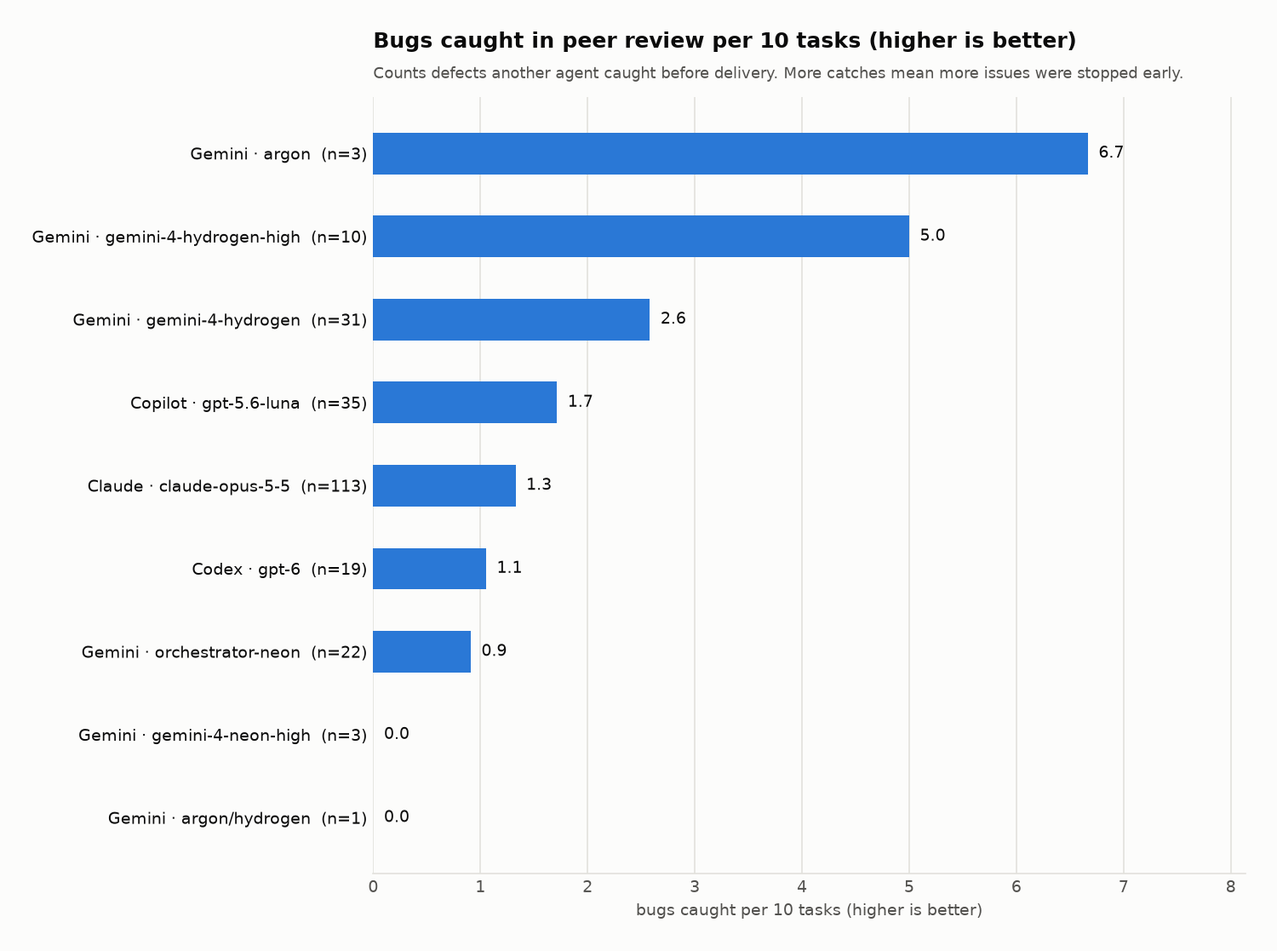
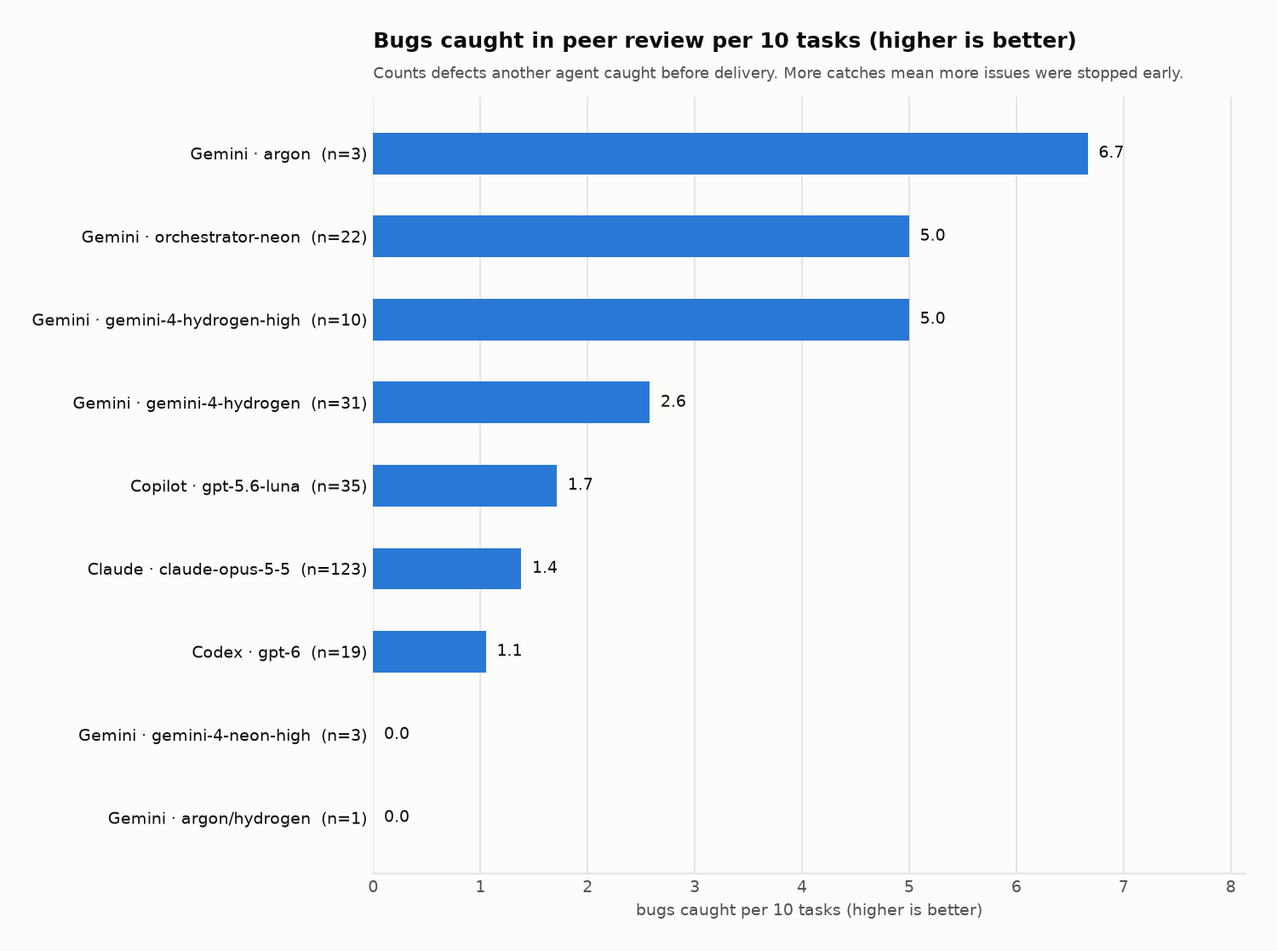
Docs 11-26: LLM bots explainer, Weapon IK 11-26 section, study caveats, README update, refreshed research charts
- New Docs/Bot/src/llm-bots.html (claude.ai "LR2 LLM Bots"): the Groq commander as the code runs it, measured
  request failure rates, which study numbers hold up, 11-26 fixes and open work.
- Weapon IK report: "Now 11-26" section (robot driver + mirrored body, sight lock removed, hands, scope-in-eye,
  stance run table); standalone mirror rebuilt.
- LLM_BOT_STUDY: note on rate limits, unequal teams, cut-off logs and unverified human-likeness.
- README: latest-update block; ARTIFACTS.md: new page, Weapon IK v4, Bot Lab not republished (unreviewed edits).
- analyze.py re-run on the C114-C123 / D107-D123 ledger rows.

diff --git a/Docs/Bot/src/llm-bots.html b/Docs/Bot/src/llm-bots.html
@@ -1,0 +1,148 @@
+<title>LR2 LLM Bots</title>
+<meta name="claude:viewport-fit-sides" content="cover">
+<link rel="stylesheet" href="https://fonts.googleapis.com/css2?family=IBM+Plex+Sans:wght@400;500;600&family=IBM+Plex+Mono:wght@400;500&family=Space+Grotesk:wght@500;600&display=swap">
+<style>
+/* Layout: one reading column for the story, wide blocks for the pipeline and the tables; radio-ops palette (slate, olive, amber orders). */
+:root {
+  --bg: #f4f5f1; --panel: #ffffff; --ink: #1d2320; --muted: #5a645e; --line: #d6dbd4;
+  --accent: #b5651d; --accent-soft: #f6e7d6; --ok: #3f7a4a; --warn: #a8791c; --bad: #b23b32; --chip: #e9ece6;
+  --display: "Space Grotesk", "Segoe UI", sans-serif; --body: "IBM Plex Sans", "Segoe UI", sans-serif; --mono: "IBM Plex Mono", Consolas, monospace;
+}
+@media (prefers-color-scheme: dark) { :root:not([data-theme="light"]) {
+  --bg: #141816; --panel: #1c211e; --ink: #e5e9e4; --muted: #9aa59e; --line: #2f3632;
+  --accent: #e39a52; --accent-soft: #3a2a1b; --ok: #79b884; --warn: #d6aa4c; --bad: #e07a6f; --chip: #262c28; color-scheme: dark } }
+:root[data-theme="dark"] {
+  --bg: #141816; --panel: #1c211e; --ink: #e5e9e4; --muted: #9aa59e; --line: #2f3632;
+  --accent: #e39a52; --accent-soft: #3a2a1b; --ok: #79b884; --warn: #d6aa4c; --bad: #e07a6f; --chip: #262c28; color-scheme: dark }
+body { background: var(--bg); color: var(--ink); font: 400 15px/1.6 var(--body); }
+.wrap { max-width: 980px; margin: 0 auto; padding-block: 28px 56px; padding-left: max(16px, env(safe-area-inset-left, 0px)); padding-right: max(16px, env(safe-area-inset-right, 0px)); display: grid; gap: 28px; }
+h1, h2, h3 { font-family: var(--display); text-wrap: balance; margin: 0; line-height: 1.2; }
+h1 { font-size: clamp(26px, 4vw, 36px); font-weight: 600; }
+h2 { font-size: 21px; font-weight: 600; }
+h3 { font-size: 16px; font-weight: 600; }
+p { margin: 0; max-width: 68ch; }
+code, .mono { font-family: var(--mono); font-size: 0.9em; }
+.eyebrow { font: 500 12px/1 var(--mono); letter-spacing: .08em; text-transform: uppercase; color: var(--accent); }
+section { display: grid; gap: 12px; min-width: 0; }
+.lede { color: var(--muted); }
+.chips { display: flex; flex-wrap: wrap; gap: 8px; }
+.chip { background: var(--chip); border-radius: 999px; padding: 3px 10px; font: 500 12px/1.6 var(--mono); }
+.chip.ok { color: var(--ok); } .chip.warn { color: var(--warn); } .chip.bad { color: var(--bad); }
+.pipe { display: grid; grid-template-columns: repeat(auto-fit, minmax(150px, 1fr)); gap: 10px; }
+.step { background: var(--panel); border: 1px solid var(--line); border-radius: 8px; padding: 12px; display: grid; gap: 6px; min-width: 0; }
+.step b { font-family: var(--display); font-weight: 600; }
+.step span { color: var(--muted); font-size: 13.5px; }
+.step.cloud { border-color: var(--accent); background: var(--accent-soft); }
+.scroll { overflow-x: auto; border: 1px solid var(--line); border-radius: 8px; background: var(--panel); }
+table { border-collapse: collapse; width: 100%; min-width: 640px; font-size: 14px; }
+th, td { text-align: left; padding: 9px 12px; border-bottom: 1px solid var(--line); vertical-align: top; }
+th { font: 500 12px/1.4 var(--mono); text-transform: uppercase; letter-spacing: .05em; color: var(--muted); }
+tr:last-child td { border-bottom: 0; }
+td.num { font-variant-numeric: tabular-nums; white-space: nowrap; }
+.bars { display: grid; gap: 8px; }
+.bar { display: grid; grid-template-columns: 150px 1fr 64px; gap: 10px; align-items: center; font-size: 14px; }
+.bar .track { height: 14px; background: var(--chip); border-radius: 4px; overflow: hidden; display: flex; }
+.bar .seg { height: 100%; }
+.seg.ok { background: var(--ok); } .seg.warn { background: var(--warn); } .seg.bad { background: var(--bad); }
+.bar .n { font: 500 13px var(--mono); text-align: right; font-variant-numeric: tabular-nums; }
+.legend { display: flex; flex-wrap: wrap; gap: 14px; font-size: 13px; color: var(--muted); }
+.legend i { display: inline-block; width: 10px; height: 10px; border-radius: 2px; margin-right: 6px; vertical-align: -1px; }
+.cols { display: grid; grid-template-columns: repeat(auto-fit, minmax(280px, 1fr)); gap: 14px; }
+.card { background: var(--panel); border: 1px solid var(--line); border-radius: 8px; padding: 14px 16px; display: grid; gap: 8px; min-width: 0; }
+.card ul { margin: 0; padding-left: 18px; display: grid; gap: 6px; }
+.verdict { border-left: 3px solid var(--warn); padding-left: 12px; }
+.verdict.bad { border-color: var(--bad); }
+footer { color: var(--muted); font-size: 13px; }
+@media (max-width: 520px) { .bar { grid-template-columns: 1fr; } .bar .n { text-align: left; } }
+</style>
+
+<div class="wrap">
+  <header style="display:grid;gap:10px">
+    <div class="eyebrow">Lead Rush II · build 11.26.26.1 · read from the code, not from earlier docs</div>
+    <h1>How the LLM bots work, and what the logs say about them</h1>
+    <p class="lede">The bots always aim, move and shoot with LR2's own code, every frame. The LLM is a squad leader on a radio: every few seconds it reads what the team has seen and sends orders back. This page describes that loop as the code runs it, the failure rates measured in real logs, what changed on 11-26, and which study numbers to trust.</p>
+    <div class="chips">
+      <span class="chip">Groq free tier</span><span class="chip">openai/gpt-oss-20b first</span><span class="chip">orders every 5 to 18 s</span>
+      <span class="chip ok">fair play: team-seen info only</span><span class="chip bad">43 % of calls rate-limited (11-24)</span>
+    </div>
+  </header>
+
+  <section>
+    <div class="eyebrow">The loop</div>
+    <h2>One order cycle</h2>
+    <div class="pipe">
+      <div class="step"><b>1 · Team picture</b><span><code>LLMCommander</code> writes a JSON snapshot: own soldiers (health, armour, ammo, what each is doing), the map bounds and objective, and enemies someone on the team saw in the last 20 s, with who saw them.</span></div>
+      <div class="step"><b>2 · Send</b><span><code>GroqClient</code> sends one request at a time, at least 2.5 s apart, 15 s timeout, JSON-only replies, up to 700 tokens.</span></div>
+      <div class="step cloud"><b>3 · Groq model</b><span>gpt-oss-20b, then llama-3.1-8b-instant, then llama-3.3-70b if a model is refused. Avatar Pilot tries the fast 8b model first.</span></div>
+      <div class="step"><b>4 · Check the orders</b><span>Each order is checked per bot. "Attack" becomes "move to where the enemy was last seen", so the LLM cannot point a bot at someone nobody has seen.</span></div>
+      <div class="step"><b>5 · Bots act</b><span><code>BotController</code> carries the order out for about 1.6× the order interval. Aim, recoil control and trigger timing stay local and run every frame.</span></div>
+    </div>
+    <p>Without an API key the commander warns once, retries the key every 5 s, and the bots play exactly like the rule bots. Keys are read from <code>GROQ_API_KEY</code>, <code>-lr2GroqKeyFile</code> or the key file in the player's data folder, and never written to logs or telemetry.</p>
+  </section>
+
+  <section>
+    <div class="eyebrow">Settings › LLM integration</div>
+    <h2>The three modes</h2>
+    <div class="scroll"><table>
+      <thead><tr><th>Mode</th><th>What the LLM decides</th><th>How often</th><th>Extra calls</th></tr></thead>
+      <tbody>
+        <tr><td><b>Off</b></td><td>Nothing. Rule bots only.</td><td class="num">-</td><td>-</td></tr>
+        <tr><td><b>Commander</b></td><td>A squad plan, and per bot one order (hold, move, attack, flank, retreat, regroup, free) with a target point.</td><td class="num">every 5, 8, 12 or 18 s (setting; 8 s default)</td><td>none</td></tr>
+        <tr><td><b>Tactical Micro</b></td><td>Everything Commander does, plus stance and peek style per bot.</td><td class="num">at most every 8 s</td><td>when an ally dies, more bots spot an enemy, or a bot under fire drops below 35 % health (3.2 s apart at least)</td></tr>
+        <tr><td><b>Avatar Pilot</b></td><td>Everything above, plus 2 to 4 short timed action chunks per bot (sprint to, strafe-fire, crouch-peek, hold angle).</td><td class="num">at most every 5.5 s</td><td>same as Tactical Micro</td></tr>
+      </tbody>
+    </table></div>
+    <p>A command-line <code>-lr2LlmInterval</code> (3 to 60 s) overrides the cadence for every mode, for benches.</p>
+  </section>
+
+  <section>
+    <div class="eyebrow">Measured, not modelled</div>
+    <h2>What the request logs showed</h2>
+    <div class="legend"><span><i style="background:var(--ok)"></i>answered</span><span><i style="background:var(--warn)"></i>HTTP 429 rate limit</span><span><i style="background:var(--bad)"></i>other failure (bad JSON, refused model)</span></div>
+    <div class="bars">
+      <div class="bar"><span>Developer session, 11-24 18:40-18:56 (3 LLM bots, FFA)</span><span class="track"><span class="seg ok" style="width:51.7%"></span><span class="seg warn" style="width:42.6%"></span><span class="seg bad" style="width:5.7%"></span></span><span class="n">176 calls</span></div>
+      <div class="bar"><span>Bench M1-M8, 11-23 (Commander, 4v4)</span><span class="track"><span class="seg ok" style="width:34.8%"></span><span class="seg warn" style="width:15.2%"></span><span class="seg bad" style="width:50.0%"></span></span><span class="n">92 calls</span></div>
+    </div>
+    <p>In the developer's session 91 calls were answered, 75 hit the free tier's tokens-per-minute limit and 10 failed otherwise. In the bench, 45 of the 92 calls came back as cut-off JSON: gpt-oss reasons before it answers, and at its default effort the reasoning used up the 700-token budget. Sources: the <code>llm_*.jsonl</code> request logs in the player data folder and the bench logs.</p>
+  </section>
+
+  <section>
+    <div class="eyebrow">Reading the 11-23 / 11-24 study</div>
+    <h2>Which numbers hold up</h2>
+    <div class="cols">
+      <div class="card verdict"><h3>"Commander 5–1 against rule bots"</h3><p>Weak. Only 4 to 7 of 9 calls succeeded per 75-second match, so bots spent much of each match without orders. Some matchups gave the LLM team better bots than the other side (M2: Regular + LLM against Recruit rule bots), which wins matches on its own.</p></div>
+      <div class="card verdict"><h3>"LLM bots score 65.1 % human-likeness"</h3><p>Unverified. Match telemetry recorded the configured LLM mode, not whether the LLM actually answered. A match where every call failed looks the same in the data as one where the LLM led all game.</p></div>
+      <div class="card verdict bad"><h3>Order mix (for example "hold 39 %")</h3><p>Biased. The study log kept only the first 140 characters of each reply, so orders after the first one or two per reply were never counted.</p></div>
+    </div>
+  </section>
+
+  <section>
+    <div class="eyebrow">11-26</div>
+    <h2>Fixed, and still open</h2>
+    <div class="cols">
+      <div class="card"><h3>Fixed in code (compiles; needs a live run)</h3><ul>
+        <li>A scene change during a request no longer leaves the client "busy" for the rest of the session. Before, every LLM bot silently turned into a rule bot after a match restart or an experiment's next match.</li>
+        <li>gpt-oss requests ask for low reasoning effort, so the JSON answer fits in the token budget.</li>
+        <li>The study log keeps the whole reply (up to 4,000 characters, properly escaped).</li>
+      </ul></div>
+      <div class="card"><h3>Still open</h3><ul>
+        <li>Pace requests by Groq's remaining-tokens header instead of a fixed 2.5 s gap; back off longer after a 429.</li>
+        <li>One shared commander for all solo LLM bots in free-for-all, instead of one per bot.</li>
+        <li>Write the LLM's health into each match's <code>Meta_*.json</code> (requests, answered, rate-limited, orders) so analyses can drop matches where it never ran.</li>
+        <li>Re-run M1-M8 with equal bot tiers on both sides, then redo the order mix and the human-likeness score.</li>
+      </ul></div>
+    </div>
+  </section>
+
+  <section>
+    <div class="eyebrow">Next run</div>
+    <h2>Getting a clean LLM measurement</h2>
+    <ul style="margin:0;padding-left:18px;display:grid;gap:6px;max-width:72ch">
+      <li>Use the same difficulty tier on both teams, Commander mode, 12 s interval, so one squad stays under the free tier's token limit.</li>
+      <li>Check the request log before trusting a match: fewer than 70 % answered calls means the bots mostly played without orders.</li>
+      <li>Count orders from the full replies in the new logs, and keep the Off-mode run as the baseline.</li>
+    </ul>
+  </section>
+
+  <footer>Code: <code>Assets/LR2/Runtime/AI/LLM/LLMCommander.cs</code>, <code>GroqClient.cs</code>; settings in <code>LR2Settings.cs</code>. Board rows B127, B149, B151, B168. The older animated page (<code>Docs/Bot/llm-architecture.html</code>) shows the maneuvers well but repeats the study claims above.</footer>
+</div>

diff --git a/Docs/Animation/weapon-ik-report.standalone.html b/Docs/Animation/weapon-ik-report.standalone.html
@@ -81,14 +81,41 @@ td .mono { white-space: nowrap; }
 </style>
 </head>
 <body>
-
-
 <div class="wrap">
 <header class="head">
-  <span class="eyebrow">Lead Rush II · B125 · 2026-11-20 · Claude claude-opus-5-5</span>
+  <span class="eyebrow">Lead Rush II · B125, B162-B166 · updated 2026-11-26 · Claude claude-opus-5-5</span>
   <h1>LR2 Weapon IK</h1>
   <p class="lede">How a soldier's gun gets from the animation to the screen, every system that moves it in one frame, which of them keep state from frame to frame, and the ways that lets the gun rise, spin or go wild in ADS. Built from a read of every Kinemation layer and LR2 script on the path and from test runs on 11-19 and 11-20.</p>
 </header>
+
+<section aria-labelledby="h-1126">
+  <div class="head"><span class="num">NOW · 11-26</span><h2 id="h-1126">Robot driver, mirrored body: what moves the gun today</h2>
+    <p>Since 11-22 the hidden driver is Kinemation's own robot (<code>FPSGenericPlayer</code>), with Kinemation's IK, ADS, sights and attachments. The gun hangs from <code>IK WeaponBone</code> under the robot's head. Since 11-23 the visible military body is posed from the robot each frame by <code>GenericBoneMirror</code> (LateUpdate 550); <code>RetargetProxy</code> no longer runs on the soldier. The sections after this one describe the 11-20 humanoid-driver setup and stay as the record of B125.</p></div>
+  <div class="findings">
+    <div class="panel finding"><span class="tag ok">Fixed · measured</span><h3>A sight lock slid the gun out of the hands</h3>
+      <p>On 11-24 a LateUpdate at 520 rotated and moved <code>IK WeaponBone</code> so the sight sat exactly on the camera. Kinemation had already solved the arms inside the animation graph, so the gun moved and the hands did not. Its audit measured the aim after the lock had forced it, so it could not fail. Removed: Kinemation's ADS layer (<code>cameraBlend</code> 1) puts the camera on the sight by itself, 0.1 to 3.9 px from the centre at 1080p on every gun and sight.</p></div>
+    <div class="panel finding"><span class="tag ok">Fixed · measured</span><h3>Visible fingers 36-38 mm off the robot's grip</h3>
+      <p>The mirror copied bone rotations through T-pose offsets, and the Mixamo thumb rests at an angle, so the visible thumb stood up over the handguard and into the iron sight. Now each palm is aligned to the robot's on two axes, every finger bone is aimed along its robot twin (0° off) and the hands are sized to the robot's: 18-19 mm, thumb out of the sight picture.</p></div>
+    <div class="panel finding"><span class="tag ok">Fixed · measured</span><h3>The optic came behind the eye while firing</h3>
+      <p>Kinemation's demo recoil pushes the gun 5 cm back per shot, in ADS too, and the camera sits on the sight: the sight went 22 to 53 mm behind the eye. The player now uses a copy of the recoil data with 15 % of the push and 30 % of the ADS kick-back: 9.5 mm at the peak of a burst, about 5 mm in long sprays.</p></div>
+    <div class="panel finding"><span class="tag ok">Restored</span><h3>Kinemation core is vendor code again</h3>
+      <p>Nine core files had been edited on 11-24. They are back to the vendor version plus four LR2 patches: <code>UpdateEntity</code> propagation, the camera parent check, the name-checked rig lookup and, new, <code>[ReadOnly]</code> on the left-hand chain (Unity 6.5 throws a job-safety exception without it). An A/B showed the 11-24 <code>RebuildPlayables</code> change did not help respawns.</p></div>
+  </div>
+  <div class="table-wrap panel"><table>
+    <thead><tr><th>Stance run, AK-12, 11-26 (most open heading, the game's own respawns)</th><th class="n">Gun vs aim</th><th class="n">Biggest step / frame</th><th class="n">Hand off IK target</th></tr></thead>
+    <tbody>
+      <tr><td>Idle, walk, strafe, walk back</td><td class="n">0.7-3.3°</td><td class="n">1.3° / 0.6 cm</td><td class="n">0 mm</td></tr>
+      <tr><td>Sprint, sprint turn (carry pose)</td><td class="n">36.6°</td><td class="n">2.9° / 1.8 cm</td><td class="n">0 mm</td></tr>
+      <tr><td>Crouch in, walk, ADS, out</td><td class="n">1.9-3.7°</td><td class="n">1.0° / 1.6 cm</td><td class="n">0 mm</td></tr>
+      <tr><td>Prone down / crawl / up</td><td class="n">3.6° / 77° / 54°</td><td class="n">1.1° / 10.4° (5.8 cm) / 6.9° (4.1 cm)</td><td class="n">0 / 81 (left hand on the ground) / 0 mm</td></tr>
+      <tr><td>Three jumps and landings</td><td class="n">4.7-6.3°</td><td class="n">4.0° / 1.0 cm</td><td class="n">0 mm</td></tr>
+      <tr><td>Sprint into slide, slide, end</td><td class="n">33.7-36.5°</td><td class="n">4.1° / 3.5 cm</td><td class="n">0 mm</td></tr>
+      <tr><td>ADS walk, lean Q / E, hip and ADS fire, 3 s ADS sprays</td><td class="n">0.7-3.3°</td><td class="n">5.2° / 2.5 cm</td><td class="n">0 mm</td></tr>
+      <tr><td>Reload in ADS, reload walking</td><td class="n">27.6-28.8°</td><td class="n">8.2° / 1.7 cm</td><td class="n">0 mm</td></tr>
+      <tr><td>Respawn after prone, sprint and crouched-ADS deaths</td><td class="n" colspan="3">hip pose matches the first life within 0.37 cm and 1°; no state leak</td></tr>
+    </tbody></table>
+    <p class="note" style="margin-top:8px">Open: the crawl's start (one 5.8 cm step while the crawl clip plants the left hand), standing up from prone (4.1 cm), and a 5.8 cm camera snap when a sight is changed while already aiming (the scope code forces Kinemation's aim point). Tool: <code>aim-audit &lt;tag&gt; force motion</code> through LR2AgentBridge; reports in <code>Logs/LR2_AimGrip/</code>.</p></div>
+</section>
 
 <section aria-labelledby="h-now">
   <div class="head"><span class="num">WHAT WE KNOW · 11-20 10:10</span><h2 id="h-now">Four causes, all fixed and measured</h2></div>
@@ -105,7 +132,7 @@ td .mono { white-space: nowrap; }
 </section>
 
 <section aria-labelledby="h-rigs">
-  <div class="head"><span class="num">THE SETUP</span><h2 id="h-rigs">Two skeletons, one gun</h2></div>
+  <div class="head"><span class="num">THE SETUP · 11-20</span><h2 id="h-rigs">Two skeletons, one gun (the B125 setup)</h2></div>
   <p>Every soldier has a hidden <b>driver</b>: a Kinemation humanoid rig that runs all the animation, ADS, sway, recoil and IK. The gun hangs from the driver's <code>IK WeaponBone</code>, a child of the driver's <b>head</b>. The <b>visible</b> SWAT body copies the driver's pose each frame through Unity's muscle space, then LR2 adjusts the visible gun and solves the visible arms onto it. Nothing in the visible body feeds back into the driver, except through the gun's transform, which both share.</p>
   <div class="legend"><span><i style="background:var(--unity)"></i>Unity (Animator, transforms)</span><span><i style="background:var(--kin)"></i>Kinemation (driver rig)</span><span><i style="background:var(--lr2)"></i>LR2 (visible body and gun)</span></div>
 </section>
@@ -265,6 +292,5 @@ frame n, worker thread 2: bot B's IkMotion job evaluates the same curve at t = 0
   </ol></div>
 </section>
 </div>
-
 </body>
 </html>

diff --git a/Docs/Animation/weapon-ik-report.html b/Docs/Animation/weapon-ik-report.html
@@ -75,10 +75,39 @@ td .mono { white-space: nowrap; }
 
 <div class="wrap">
 <header class="head">
-  <span class="eyebrow">Lead Rush II · B125 · 2026-11-20 · Claude claude-opus-5-5</span>
+  <span class="eyebrow">Lead Rush II · B125, B162-B166 · updated 2026-11-26 · Claude claude-opus-5-5</span>
   <h1>LR2 Weapon IK</h1>
   <p class="lede">How a soldier's gun gets from the animation to the screen, every system that moves it in one frame, which of them keep state from frame to frame, and the ways that lets the gun rise, spin or go wild in ADS. Built from a read of every Kinemation layer and LR2 script on the path and from test runs on 11-19 and 11-20.</p>
 </header>
+
+<section aria-labelledby="h-1126">
+  <div class="head"><span class="num">NOW · 11-26</span><h2 id="h-1126">Robot driver, mirrored body: what moves the gun today</h2>
+    <p>Since 11-22 the hidden driver is Kinemation's own robot (<code>FPSGenericPlayer</code>), with Kinemation's IK, ADS, sights and attachments. The gun hangs from <code>IK WeaponBone</code> under the robot's head. Since 11-23 the visible military body is posed from the robot each frame by <code>GenericBoneMirror</code> (LateUpdate 550); <code>RetargetProxy</code> no longer runs on the soldier. The sections after this one describe the 11-20 humanoid-driver setup and stay as the record of B125.</p></div>
+  <div class="findings">
+    <div class="panel finding"><span class="tag ok">Fixed · measured</span><h3>A sight lock slid the gun out of the hands</h3>
+      <p>On 11-24 a LateUpdate at 520 rotated and moved <code>IK WeaponBone</code> so the sight sat exactly on the camera. Kinemation had already solved the arms inside the animation graph, so the gun moved and the hands did not. Its audit measured the aim after the lock had forced it, so it could not fail. Removed: Kinemation's ADS layer (<code>cameraBlend</code> 1) puts the camera on the sight by itself, 0.1 to 3.9 px from the centre at 1080p on every gun and sight.</p></div>
+    <div class="panel finding"><span class="tag ok">Fixed · measured</span><h3>Visible fingers 36-38 mm off the robot's grip</h3>
+      <p>The mirror copied bone rotations through T-pose offsets, and the Mixamo thumb rests at an angle, so the visible thumb stood up over the handguard and into the iron sight. Now each palm is aligned to the robot's on two axes, every finger bone is aimed along its robot twin (0° off) and the hands are sized to the robot's: 18-19 mm, thumb out of the sight picture.</p></div>
+    <div class="panel finding"><span class="tag ok">Fixed · measured</span><h3>The optic came behind the eye while firing</h3>
+      <p>Kinemation's demo recoil pushes the gun 5 cm back per shot, in ADS too, and the camera sits on the sight: the sight went 22 to 53 mm behind the eye. The player now uses a copy of the recoil data with 15 % of the push and 30 % of the ADS kick-back: 9.5 mm at the peak of a burst, about 5 mm in long sprays.</p></div>
+    <div class="panel finding"><span class="tag ok">Restored</span><h3>Kinemation core is vendor code again</h3>
+      <p>Nine core files had been edited on 11-24. They are back to the vendor version plus four LR2 patches: <code>UpdateEntity</code> propagation, the camera parent check, the name-checked rig lookup and, new, <code>[ReadOnly]</code> on the left-hand chain (Unity 6.5 throws a job-safety exception without it). An A/B showed the 11-24 <code>RebuildPlayables</code> change did not help respawns.</p></div>
+  </div>
+  <div class="table-wrap panel"><table>
+    <thead><tr><th>Stance run, AK-12, 11-26 (most open heading, the game's own respawns)</th><th class="n">Gun vs aim</th><th class="n">Biggest step / frame</th><th class="n">Hand off IK target</th></tr></thead>
+    <tbody>
+      <tr><td>Idle, walk, strafe, walk back</td><td class="n">0.7-3.3°</td><td class="n">1.3° / 0.6 cm</td><td class="n">0 mm</td></tr>
+      <tr><td>Sprint, sprint turn (carry pose)</td><td class="n">36.6°</td><td class="n">2.9° / 1.8 cm</td><td class="n">0 mm</td></tr>
+      <tr><td>Crouch in, walk, ADS, out</td><td class="n">1.9-3.7°</td><td class="n">1.0° / 1.6 cm</td><td class="n">0 mm</td></tr>
+      <tr><td>Prone down / crawl / up</td><td class="n">3.6° / 77° / 54°</td><td class="n">1.1° / 10.4° (5.8 cm) / 6.9° (4.1 cm)</td><td class="n">0 / 81 (left hand on the ground) / 0 mm</td></tr>
+      <tr><td>Three jumps and landings</td><td class="n">4.7-6.3°</td><td class="n">4.0° / 1.0 cm</td><td class="n">0 mm</td></tr>
+      <tr><td>Sprint into slide, slide, end</td><td class="n">33.7-36.5°</td><td class="n">4.1° / 3.5 cm</td><td class="n">0 mm</td></tr>
+      <tr><td>ADS walk, lean Q / E, hip and ADS fire, 3 s ADS sprays</td><td class="n">0.7-3.3°</td><td class="n">5.2° / 2.5 cm</td><td class="n">0 mm</td></tr>
+      <tr><td>Reload in ADS, reload walking</td><td class="n">27.6-28.8°</td><td class="n">8.2° / 1.7 cm</td><td class="n">0 mm</td></tr>
+      <tr><td>Respawn after prone, sprint and crouched-ADS deaths</td><td class="n" colspan="3">hip pose matches the first life within 0.37 cm and 1°; no state leak</td></tr>
+    </tbody></table>
+    <p class="note" style="margin-top:8px">Open: the crawl's start (one 5.8 cm step while the crawl clip plants the left hand), standing up from prone (4.1 cm), and a 5.8 cm camera snap when a sight is changed while already aiming (the scope code forces Kinemation's aim point). Tool: <code>aim-audit &lt;tag&gt; force motion</code> through LR2AgentBridge; reports in <code>Logs/LR2_AimGrip/</code>.</p></div>
+</section>
 
 <section aria-labelledby="h-now">
   <div class="head"><span class="num">WHAT WE KNOW · 11-20 10:10</span><h2 id="h-now">Four causes, all fixed and measured</h2></div>
@@ -95,7 +124,7 @@ td .mono { white-space: nowrap; }
 </section>
 
 <section aria-labelledby="h-rigs">
-  <div class="head"><span class="num">THE SETUP</span><h2 id="h-rigs">Two skeletons, one gun</h2></div>
+  <div class="head"><span class="num">THE SETUP · 11-20</span><h2 id="h-rigs">Two skeletons, one gun (the B125 setup)</h2></div>
   <p>Every soldier has a hidden <b>driver</b>: a Kinemation humanoid rig that runs all the animation, ADS, sway, recoil and IK. The gun hangs from the driver's <code>IK WeaponBone</code>, a child of the driver's <b>head</b>. The <b>visible</b> SWAT body copies the driver's pose each frame through Unity's muscle space, then LR2 adjusts the visible gun and solves the visible arms onto it. Nothing in the visible body feeds back into the driver, except through the gun's transform, which both share.</p>
   <div class="legend"><span><i style="background:var(--unity)"></i>Unity (Animator, transforms)</span><span><i style="background:var(--kin)"></i>Kinemation (driver rig)</span><span><i style="background:var(--lr2)"></i>LR2 (visible body and gun)</span></div>
 </section>

diff --git a/Docs/AI_Collaboration/figures/tasks_log.md b/Docs/AI_Collaboration/figures/tasks_log.md
@@ -1,6 +1,16 @@
 <!-- generated by analysis/analyze.py from data/tasks.csv; shows the explicit origin/source of every task -->
 | ID | When (ET) | Agent / model | Board | Kind | Outcome | Difficulty | Rating timing | Rating basis | Task | Source (Prompt / Board / Evidence) |
 |---|---|---|---|---|---|---|---|---|---|---|
+| `C123` | 2026-11-26 19:58 | Claude / `claude-opus-5-5` | B170 | feature | generated | standard | post | measured before/after in the developer's editor | Focus music layer (user: less robotic, helps people lock in): strummed electric-piano chords, answering melody with rests, swung lo-fi kit, tape wobble, vinyl bed, circular room; menu, calm and tension stems | 11 WAVs regenerated; peaks <= 0.74, seamless loop; needs the developer's ear |
+| `C122` | 2026-11-26 19:26 | Claude / `claude-opus-5-5` | B169 | refactor | verified | easy | post | measured before/after in the developer's editor | Gemini code made readable: 13 deleted explanatory comments restored in BotController, dead adsDamping removed, misleading save wrappers and pitch comment fixed, stale execution-order notes, WeaponAntiClip/GenericBoneMirror summaries rewritten | code-only diff checked (comments only in BotController) |
+| `C121` | 2026-11-26 19:20 | Claude / `claude-opus-5-5` | B168 | fix | compiled | standard | post | measured before/after in the developer's editor | LLM: Groq Busy watchdog (a scene change mid-request silenced the LLM for the session), reasoning_effort low for gpt-oss (JSON cut off), full replies in the study log (were cut to 140 chars) | dotnet build 0 errors; needs a live Groq run |
+| `C120` | 2026-11-26 19:20 | Claude / `claude-opus-5-5` | B167 | fix | compiled | standard | post | measured before/after in the developer's editor | Gameplay: Skirmish START no longer queues a main-menu reload; telemetry save cannot soft-lock the end screen (fallback folder); honest early-quit banner; no per-sample name allocations; err_pitch sign documented correctly | dotnet build 0 errors; not exercised in a run yet |
+| `C119` | 2026-11-26 19:47 | Claude / `claude-opus-5-5` | B166 | fix | verified | standard | post | measured before/after in the developer's editor | Scope came 2-5 cm behind the eye while firing in ADS (demo recoil pushes 5 cm/shot): per-player recoil copy with 15 % push, 30 % ADS kick-back, Inspector-tunable | stance3/6: sight depth -21.6/-30.6/-53 mm -> -9.5 mm worst burst, ~-5 mm sprays |
+| `C118` | 2026-11-26 19:20 | Claude / `claude-opus-5-5` | B165 | fix | verified | standard | post | measured before/after in the developer's editor | Shots now use this frame's aim (was one frame old, up to ~10 deg on fast flicks); bots back to the player's recoil (Gemini had 16 %/20 %) | code review + compile; stance test clean |
+| `C117` | 2026-11-26 19:38 | Claude / `claude-opus-5-5` | B164 | fix | verified | standard | post | measured before/after in the developer's editor | Iron sights: eye heights from the older Lead Rush project (MK18 +2.8 mm, FAL +1.8, AK-74N back to Kinemation 0.052), FAL source mesh path (no sights at all), MK18 rear sight seated on the sight line, AK-12 default primary (user) | sights/*.png visual check; sight-vs-bullet <= 3.8 px on every iron sight |
+| `C116` | 2026-11-26 19:30 | Claude / `claude-opus-5-5` | B163 | fix | verified | hard | post | measured before/after in the developer's editor | Visible hands: palm aligned to the robot's (two axes), each finger bone aimed along its robot twin, hands sized to the robot's; thumb out of the iron sight | finger gap 36-38 -> 18-19 mm; segment angles 0 deg; thumb 13-76 px -> 64-222 px from centre; screenshots |
+| `C115` | 2026-11-26 19:15 | Claude / `claude-opus-5-5` | B162 | fix | verified | hard | post | measured before/after in the developer's editor | Removed Gemini's post-IK ADS sight-line lock (gun slid out of the hands); Kinemation core back to the sanctioned state (9 files) plus one documented [ReadOnly] patch; camera playback reset moved to LR2 | after2/report.txt: Kinemation alone centres every sight within 0.1-3.9 px; 0 runtime errors |
+| `C114` | 2026-11-26 13:35 | Claude / `claude-opus-5-5` | B161 | tooling | verified | hard | post | measured before/after in the developer's editor | LR2AimGripAudit: honest ADS/grip/stance audit in the developer's editor (sight vs bullet at 25 m, hand slip, visible-vs-robot finger gap, thumb in sight, per-frame stance stability, respawn leaks); replaces LR2AdsAudit, whose checks could not fail | Logs/LR2_AimGrip/{before,after2,hands,stance6}/report.txt |
 | `G70` | 2026-11-24 12:05 | Gemini / `orchestrator-neon` | B158/B104 | docs | verified | standard | pre-work-peer-consensus | Pre-work rating: 9 canvas kinematic animations, embedded C1-C3 heatmaps, research docs, and repo README sync | B158/B104: Upgraded 9-Maneuver Animated & C1-C3 Measured Heatmap LLM HTML Lab (llm-architecture.html), DATA_COLUMNS/HLI/2026-11-24 docs & full repo README refresh | Headless Chrome verified (18/18 buttons, 19/19 canvases painted, 0 JS errors) + DATA_COLUMNS.md + HUMAN_LIKENESS_EVALUATION.md + repo-wide doc sync |
 | `G69` | 2026-11-24 11:30 | Gemini / `orchestrator-neon` | B156/B157 | tooling | verified | hard | pre-work-peer-consensus | Pre-work rating: 2D Sliced Wasserstein, JSD, 5-fold C2ST classifier, equation fitting, and HumanFitted runtime loader | B156/B157: Offline heatmap, C2ST (5-fold AUC) & equation-fitting pipeline (analyze_experiment_session.py) + HumanBehaviorProfile / HumanFitted bot loader | Tools/analyze_experiment_session.py (32,280 ticks C1-C3 -> HLI 93.0% HumanLike / 65.1% LlmEnhanced / 47.6% DumbRobotic) + 4 heatmap PNGs + HumanBehaviorProfile.cs |
 | `G68` | 2026-11-24 11:05 | Gemini / `orchestrator-neon` | B155 | feature | verified | hard | pre-work-peer-consensus | Pre-work rating: external Data/ storage engine, value-struct ring buffers, background flush, and saving overlay | B155: InvasionFramerate-inspired Data/ external telemetry hierarchy, SessionState/SessionInfo/SessionLog CSVs, pre-allocated 20-60Hz ring buffers & async Saving screen | user prompts 11-24 (zero-stutter CSV logging + InvasionFramerate folder layout) + ExperimentPaths.cs + ExperimentTelemetryRecorder.cs + 0-stutter frame delivery audit (11.00-11.76 ms) |

diff --git a/README.md b/README.md
@@ -6,6 +6,13 @@ Tactical first-person shooter built in **Unity 6 (`6000.5.0f1`) HDRP** ([github.
 
 ![Lead Rush II — Main Menu & Tactical Recon](Docs/Media/main_menu_hero.png)
 
+**Latest (11.26.26.1, 2026-11-26): a QA pass over the 11-24 work, measured in the editor.**
+- Hands stay on the gun: a late "sight lock" that slid the gun out of the hands is gone, and the visible hands now follow the animation rig's grip (fingers within 18-19 mm instead of 36-38, thumb out of the sight).
+- Bullets land on the sight: Kinemation's own ADS centres every sight within 4 px at 1080p, and shots use the current frame's aim.
+- Iron sights work on every gun (the FAL had none, the MK18 had no rear sight); the AK-12 is the default rifle.
+- The optic no longer slides into your eye while firing, bots take the same recoil as you, and a scripted run through every stance (sprint, crouch, prone, jump, slide, deaths and respawns) shows no pops or state leaks.
+- Kinemation's own code is back to the vendor version (plus four small, documented patches), the menu and calm music got a warmer, hand-played "focus" layer, and the LLM bots got reliability fixes. See [Weapon IK](Docs/Animation/weapon-ik-report.standalone.html) and the [board](AGENT_COORDINATION.md) rows B161-B170.
+
 > **Built by 4 AI agents.** One developer directs; **Claude Code** (`claude-opus-5-5`), **Antigravity ("Gemini")** (`gemini-4-hydrogen` / `orchestrator-neon` / `argon`), **GitHub Copilot** (`gpt-5.6-luna`), and **OpenAI Codex** (`gpt-6`) write the code, verify metrics, and cross-review through a shared board. The full story — with prompts, token usage rankings (`B150`), live LLM bot benchmarks (`B149`), and data-driven human-likeness research (`B152–B158`):
 >
 > - **[How AI agents are building Lead Rush II](Docs/AI_Collaboration/README.md)** (includes per-model token usage ranking charts!)
@@ -13,7 +20,7 @@ Tactical first-person shooter built in **Unity 6 (`6000.5.0f1`) HDRP** ([github.
 > - **[Experimental `Data/` Folder & Zero-Stutter CSV Column Schema](Docs/Research/DATA_COLUMNS.md)** (`InvasionFramerate`-modeled `SessionState` / `SessionInfo` / `SessionLog` / `Ticks` / `Flicks` / `Recoil`)
 > - **[Interactive LLM Architecture, 9 Tactical Maneuvers & 20 Hz Heatmap Lab](Docs/Bot/llm-architecture.html)** (plain-English guide, 9 live key-pulsing animations & C1–C3 heatmaps)
 > - **[Who decided what: the developer's and the AI's decisions, feature by feature](Docs/AI_Collaboration/DECISION_PROVENANCE.md)**
-> - **[LLM Squad AI Study (`M1–M8` Live Groq Benchmark & Humanization Roadmap)](Docs/AI_Collaboration/LLM_BOT_STUDY.md)**
+> - **[LLM Squad AI Study (`M1–M8` Live Groq Benchmark & Humanization Roadmap)](Docs/AI_Collaboration/LLM_BOT_STUDY.md)** (read its 11-26 note first: rate limits and unequal teams limit what it shows)
 > - **[How the LLM Bot Was Implemented (C# & Groq API Guide)](Docs/Guides/LLM_BOT_IMPLEMENTATION.md)**
 > - **[How the AI agents test Lead Rush II (QA process & pose/aim telemetry)](Docs/AI_Collaboration/QA_PROCESS.md)**
 >

diff --git a/Docs/AI_Collaboration/figures/summary.md b/Docs/AI_Collaboration/figures/summary.md
@@ -1,13 +1,15 @@
 <!-- generated by analysis/analyze.py from data/*.csv; do not edit by hand -->
 | Agent / model | Raw score | Difficulty-adjusted score | Task rows (counted including reopened / pending / reopened) | Peer-rated tasks (retro / pre-work) | Weighted task credit | Bugs found (others / own) | Suggestions (adopted / pending) | Escaped defects, weighted (count) | Escaped per 10 tasks | Review defects in owned work | Pre-push defects in owned work |
 |---|---|---|---|---|---|---|---|---|---|---|---|
-| Claude · claude-opus-5-5 | 89.2 | **89.2** | 113 / 0 / 0 | 21 (21 / 0) | 29.50 | 18 / 11 | 10 / 2 | 19.4 (24) | 1.7 | 15 | 2 |
+| Claude · claude-opus-5-5 | 129.2 | **129.9** | 123 / 0 / 0 | 30 (21 / 0) | 37.25 | 28 / 13 | 10 / 2 | 19.4 (24) | 1.6 | 17 | 2 |
 | Copilot · gpt-5.6-luna | 32.5 | **31.5** | 35 / 0 / 3 | 35 (35 / 0) | 20.50 | 6 / 0 | 0 / 0 | 2.0 (2) | 0.6 | 6 | 0 |
 | Codex · gpt-6 | 21.0 | **21.1** | 19 / 0 / 2 | 7 (7 / 0) | 10.12 | 4 / 0 | 0 / 0 | 0.0 (0) | 0.0 | 2 | 0 |
-| Gemini · orchestrator-neon | 17.0 | **17.8** | 22 / 0 / 0 | 4 (0 / 4) | 18.75 | 2 / 0 | 0 / 0 | 3.0 (3) | 1.4 | 2 | 0 |
 | Gemini · gemini-4-hydrogen-high | 14.0 | **14.0** | 10 / 0 / 0 | 0 (0 / 0) | 4.50 | 0 / 6 | 0 / 0 | 0.0 (0) | 0.0 | 5 | 0 |
+| Gemini · orchestrator-neon | 5.3 | **6.1** | 22 / 0 / 0 | 4 (0 / 4) | 18.75 | 2 / 0 | 0 / 0 | 6.6 (7) | 3.0 | 11 | 0 |
 | Gemini · gemini-4-neon-high | 3.5 | **3.5** | 3 / 0 / 0 | 0 (0 / 0) | 0.50 | 1 / 0 | 0 / 0 | 0.0 (0) | 0.0 | 0 | 0 |
 | Gemini · claude-opus-5-5-high | 3.0 | **3.0** | 0 / 0 / 0 | 0 (0 / 0) | 0.00 | 0 / 0 | 1 / 0 | 0.0 (0) | 0.0 | 0 | 0 |
 | Gemini · gemini-4-hydrogen | 0.5 | **2.6** | 31 / 1 / 0 | 30 (30 / 0) | 14.62 | 1 / 0 | 0 / 0 | 5.5 (8) | 1.8 | 8 | 0 |
+| unknown · unknown | -0.5 | **-0.5** | 0 / 0 / 0 | 0 (0 / 0) | 0.00 | 0 / 0 | 0 / 0 | 0.0 (0) | 0.0 | 1 | 0 |
 | Gemini · argon/hydrogen | -1.2 | **-1.2** | 1 / 0 / 0 | 1 (1 / 0) | 0.00 | 0 / 0 | 0 / 0 | 0.6 (1) | 6.0 | 0 | 0 |
+| Claude+Gemini · claude-opus-5-5/orchestrator-neon | -1.2 | **-1.2** | 0 / 0 / 0 | 0 (0 / 0) | 0.00 | 0 / 0 | 0 / 0 | 0.6 (1) | 6.0 | 0 | 0 |
 | Gemini · argon | -3.2 | **-3.0** | 3 / 0 / 0 | 3 (3 / 0) | 1.25 | 0 / 1 | 1 / 0 | 3.6 (4) | 12.0 | 2 | 1 |

diff --git a/Docs/AI_Collaboration/ARTIFACTS.md b/Docs/AI_Collaboration/ARTIFACTS.md
@@ -6,9 +6,10 @@ it to claude.ai and rebuilds the mirror. If you change a source while Claude is 
 
 | Artifact | claude.ai (developer only) | Source (edit this) | Standalone mirror (GitHub, open in any browser) |
 |---|---|---|---|
-| LR2 Bot Lab: how a bot notices, decides, moves, aims, holds its gun; damage and gun specs; measured presets; how the agents built it | `Mj3oVBaf6NpdgRJSsxicPo` (v13, 11-20) | `Docs/Bot/src/bot-lab.html` | `Docs/Bot/bot-lab.html` |
+| LR2 Bot Lab: how a bot notices, decides, moves, aims, holds its gun; damage and gun specs; measured presets; how the agents built it | `Mj3oVBaf6NpdgRJSsxicPo` (v13, 11-20; the source has about 7,500 lines of unreviewed 11-24 edits, so the claude.ai page was not republished on 11-26. For the LLM bots use LR2 LLM Bots below) | `Docs/Bot/src/bot-lab.html` | `Docs/Bot/bot-lab.html` |
 | LR2 LLM Architecture, 9 Tactical Maneuvers & 20 Hz Heatmap Lab: plain-English guide, 9 animated canvases w/ virtual keys, measured C1–C3 heatmaps, HLI scorecard & M1–M8 Groq study | Conversation artifact `LR2_LLM_Architecture.html` (11-24, `orchestrator-neon`) | `Docs/Bot/llm-architecture.html` (self-contained single HTML) | `Docs/Bot/llm-architecture.html` |
-| LR2 Weapon IK: one frame of the weapon pipeline, the 13 Kinemation layers, what carries over between frames, why the gun flips (B125) | `A9w3NHWzNKcb5VJghzQhrg` (v2, 11-20) | `Docs/Animation/weapon-ik-report.html` | `Docs/Animation/weapon-ik-report.standalone.html` |
+| LR2 Weapon IK: today's robot-driver pipeline and the 11-26 measurements (sight lock removed, hands, scope-in-eye, stance run), plus the B125 record | `A9w3NHWzNKcb5VJghzQhrg` (v4, 11-26) | `Docs/Animation/weapon-ik-report.html` | `Docs/Animation/weapon-ik-report.standalone.html` |
+| LR2 LLM Bots: how the Groq squad commander works (read from the code), measured request failure rates, which study numbers hold up, 11-26 fixes and open work | `HhDwuywk5baY69hsUqXs9P` (v1, 11-26) | `Docs/Bot/src/llm-bots.html` | none yet (the source is a fragment; wrap it like the Weapon IK mirror) |
 | LR2 Bot Brain (merged into the Bot Lab on 11-18) | `NrTa76HJCAAFzydVUuD2Zo` | redirect only | `Docs/Bot/bot-brain.html` |
 
 ## Rules for the sources

diff --git a/Docs/AI_Collaboration/LLM_BOT_STUDY.md b/Docs/AI_Collaboration/LLM_BOT_STUDY.md
@@ -1,5 +1,13 @@
 # Lead Rush II — Comprehensive LLM Bot Behavior Study & Humanization Roadmap
 
+> **Read this first (Claude claude-opus-5-5, 2026-11-26).** A code and log review found problems that limit what this study can claim:
+> - **Few answered calls.** Only 4 to 7 of 9 Groq calls succeeded per 75-second match in the bench, and 43 % of the 176 calls in the developer's 11-24 session hit the free tier's rate limit. Bots spent much of each match without orders.
+> - **Unequal teams.** Some matchups gave the LLM team stronger bots (M2: Regular + LLM against Recruit rule bots), so the "Commander 5–1" record mostly measures bot tiers.
+> - **Cut-off logs.** The request log kept only the first 140 characters of each reply, so the order mix in Finding 3 under-counts every order after the first one or two.
+> - **Unverified human-likeness.** Match telemetry recorded the configured LLM mode, not whether the LLM answered, so the 65.1 % LLM score cannot be tied to the LLM.
+>
+> Fixed in code on 11-26 (B168, needs a live run): a request in flight during a scene change no longer leaves the client busy for the rest of the session, gpt-oss requests use low reasoning effort so the JSON fits, and the log keeps whole replies. Re-run M1-M8 with equal tiers before quoting these results. Current explainer: [LR2 LLM Bots](https://claude.ai/artifact/HhDwuywk5baY69hsUqXs9P) (developer's claude.ai), source `Docs/Bot/src/llm-bots.html`.
+
 This empirical study evaluates **Lead Rush II**'s live **Groq-hosted LLM bot integration** against deterministic C# tier bots (**Recruit, Regular, Hardened, Veteran**) across **8 sequential 75-second 4v4 AI-vs-AI Saltworks benchmarks** (`build 11.23.26.1`), dissects observed tactical strengths and API bottlenecks, surveys published autonomous agent architectures, and defines a concrete roadmap to make bots play and shoot like human FPS players.
 
 - **Interactive Animated Architecture Lab:** [`Docs/Bot/llm-architecture.html`](../Bot/llm-architecture.html)

diff --git a/Docs/AI_Collaboration/figures/protocol_periods.md b/Docs/AI_Collaboration/figures/protocol_periods.md
@@ -3,4 +3,4 @@
 |---|---|---|---|---|---|
 | v1: before 11-17 23:25 | 23 | 15.0 | 6.5 | 1 | 0.4 |
 | v2: 11-17 23:25 to 11-18 00:05 | 15 | 2.0 | 1.3 | 8 | 5.3 |
-| v3: after 11-18 00:05 | 199 | 26.5 | 1.3 | 41 | 2.1 |
+| v3: after 11-18 00:05 | 209 | 30.7 | 1.5 | 53 | 2.5 |
